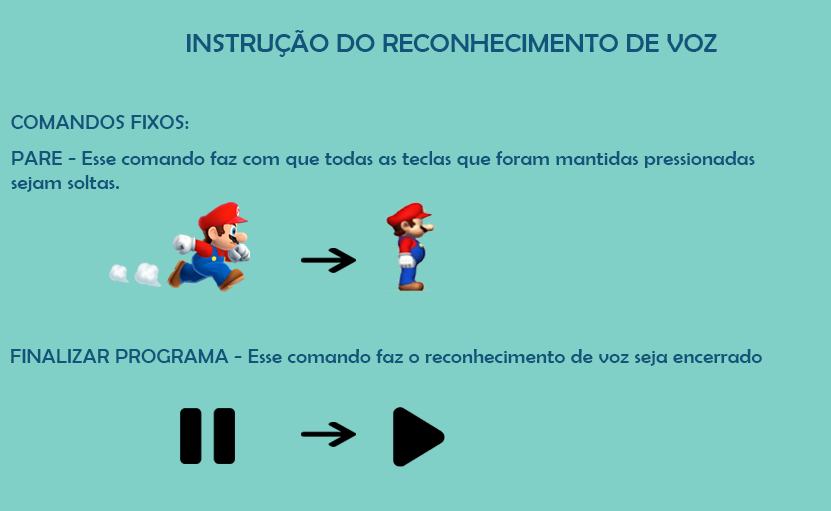
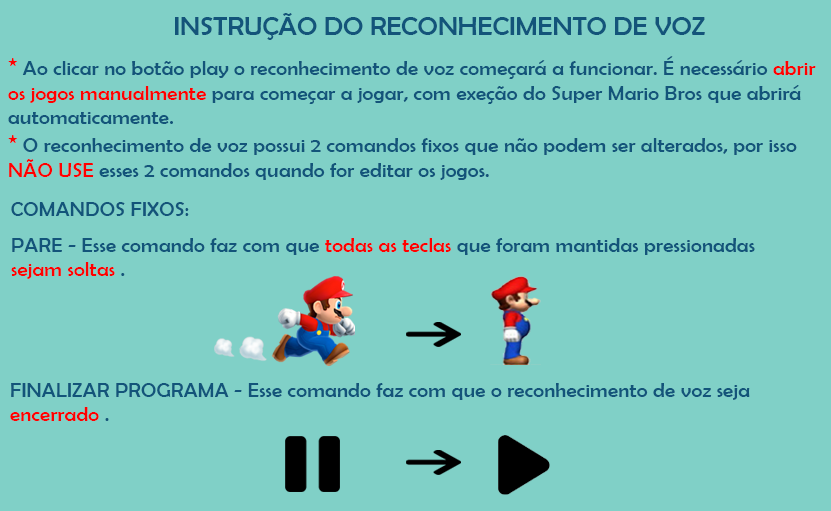
Added 2 more games and delete print command

diff --git a/Screens/Menu.py b/Screens/Menu.py
@@ -132,7 +132,7 @@ class Menu_Screen(QtWidgets.QWidget):
 
 
             self.playing = True
-            self.stop_playing_icon.addPixmap(QtGui.QPixmap("Images/stop_playing_icon.png"), QtGui.QIcon.Normal,QtGui.QIcon.Off)
+            self.stop_playing_icon.addPixmap(QtGui.QPixmap("Images/stop_playing_icon.png"), QtGui.QIcon.Normal)
             play_button_component.setIcon(self.stop_playing_icon)
             play_button_component.setIconSize(QtCore.QSize(70, 70))
 
@@ -141,7 +141,6 @@ class Menu_Screen(QtWidgets.QWidget):
             if(name[0] == "Super Mario Bros"):
                 os.system('start chrome "https://supermarioemulator.com/supermario.php" --kiosk')
 
-            print(game_name)
             self.which_game_i_will_use = game_name
 
             threading.Thread(target=self.recogniton.voice_commands,args=(game_name,play_button_component,self)).start()
@@ -152,11 +151,10 @@ class Menu_Screen(QtWidgets.QWidget):
             name = game_name.split(".")
 
             self.playing = False
-            self.play_icon.addPixmap(QtGui.QPixmap("Images/play_button.png"), QtGui.QIcon.Normal, QtGui.QIcon.Off)
+            self.play_icon.addPixmap(QtGui.QPixmap("Images/play_button.png"), QtGui.QIcon.Normal)
             play_button_component.setIcon(self.play_icon)
             play_button_component.setIconSize(QtCore.QSize(50, 50))
             self.recogniton.stop_recognition = True
 
-    def instructional(self):
-        print("INSTRUÇÃO")
+    def instructional(self):        
         self.go_to_Instruction.emit()
